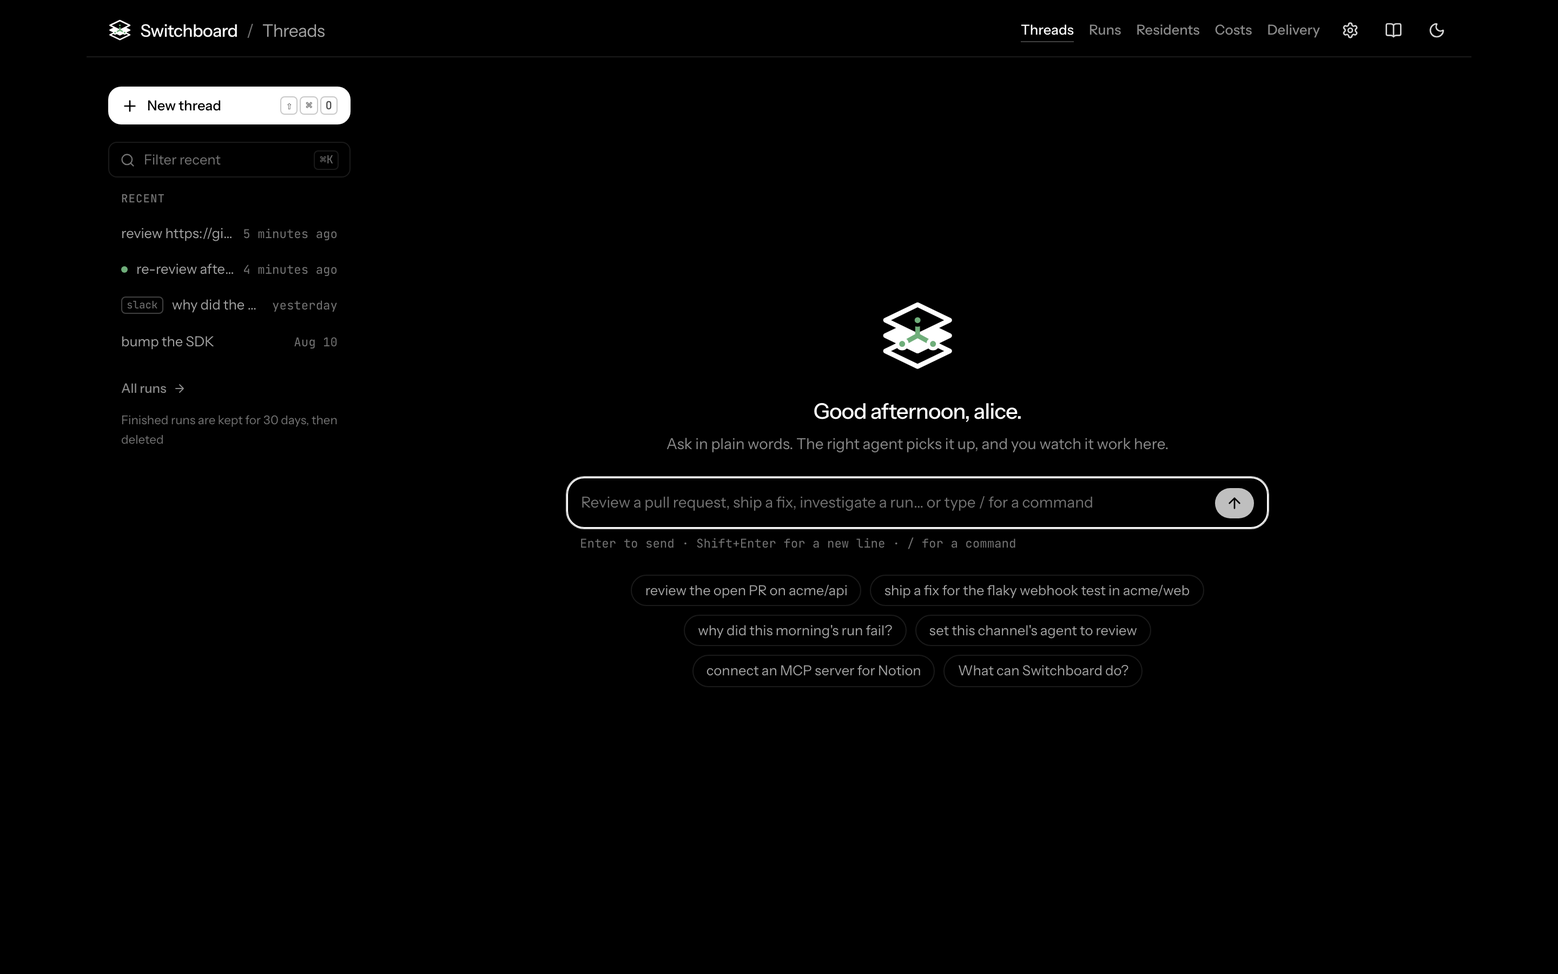
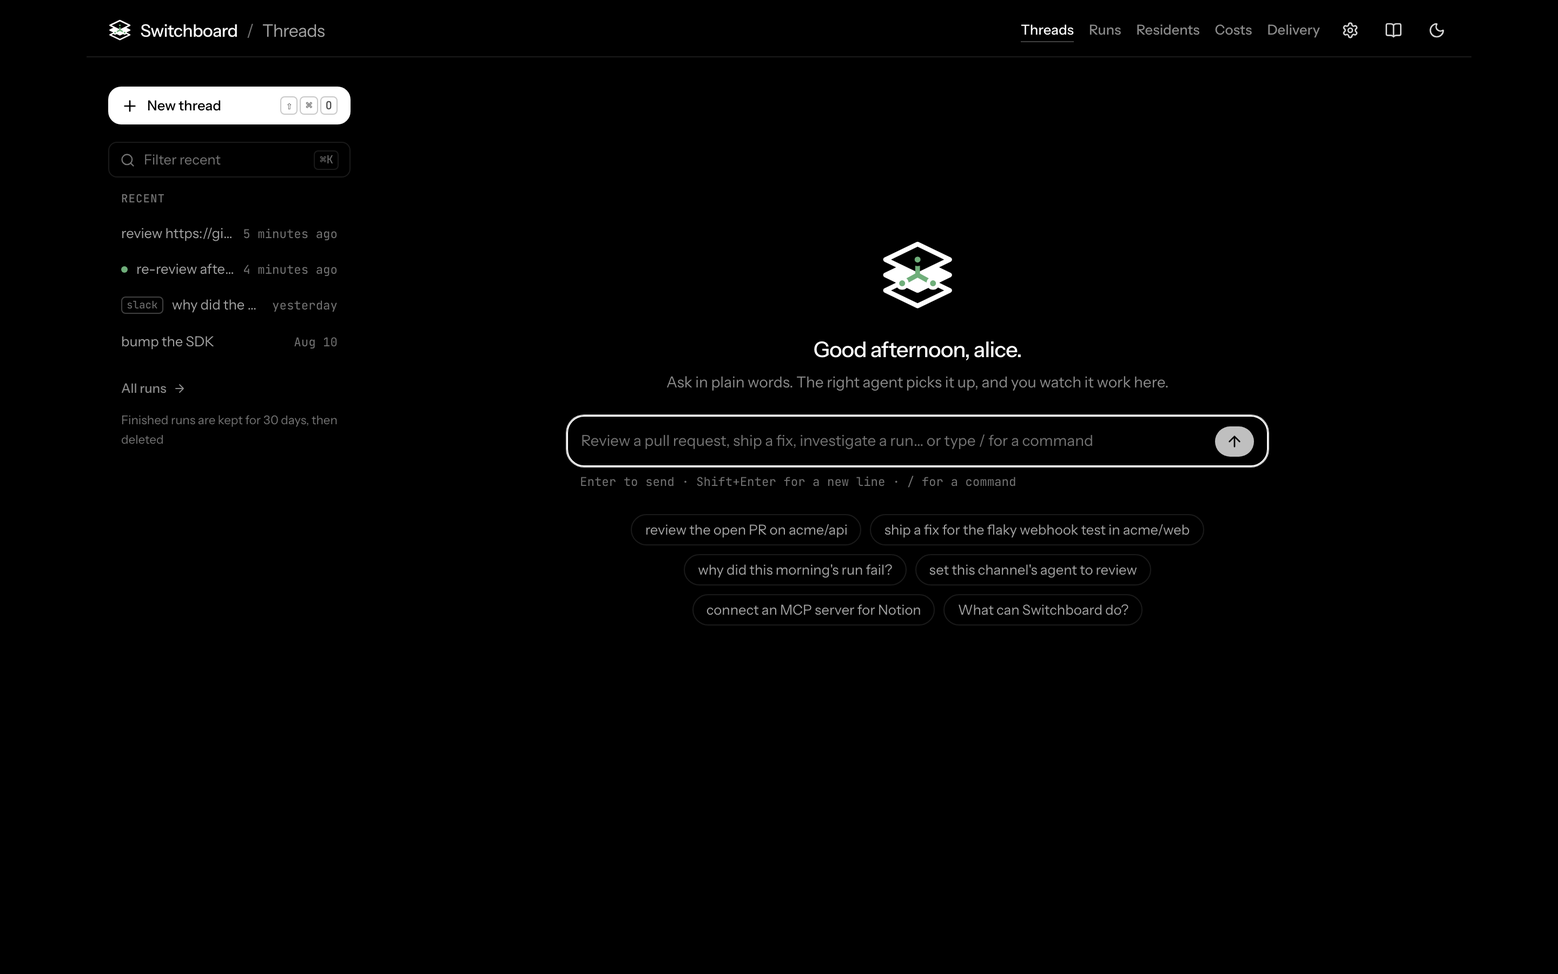
fix(web): the empty state hangs from the top at a capped offset, the composer focus sweep is a line of colour that settles to ink, and a rail title skips a run that recorded no request
Three things the maintainer saw on the live page. The empty state was
centred in the viewport, so a tall screen sank the greeting and the composer
to the middle of nowhere; it now hangs from the top at clamp(1.5rem, 14vh,
9rem). The focus sweep was a monochrome light in a zero-chroma page and read
as nothing moving; the conic gradient is now the mark's green blending into
ink, so a line of colour is seen to travel the ring once and settle to the
focused border. A ship thread whose first attempt died before publishing its
request was titled by that run's label — the card's head — so the rail reads
the thread's first request from the oldest run that recorded one.

Spec: web-chat.md items 2, 7 and 8.

Changed region(s): [[0.375, 0.2489, 0.8125, 0.6533], [0.4688, 0.6844, 0.5938, 0.7156], [0.625, 0.6844, 0.7188, 0.7156]]

diff --git a/src/channels/web.test.ts b/src/channels/web.test.ts
@@ -528,12 +528,23 @@ describe("GET /threads and /threads/<id> — the seed from the runs service (ite
     expect(res.body).not.toMatch(/tok-/);
   });
 
-  it("/threads/<id> seeds exactly the thread's runs the viewer may read, oldest first, each with its request, reply and route; a live run carries its token; the rail lists the viewer's threads across channels, newest first, a foreign thread by its whole key", async () => {
+  it("/threads/<id> seeds exactly the thread's runs the viewer may read, oldest first, each with its request, reply and route; a live run carries its token; the rail lists the viewer's threads across channels, newest first, a foreign thread by its whole key, a thread whose oldest run recorded no request titled by the next one's", async () => {
     const { handler, store, registry } = setup();
     await store.put(record("r-1", NOW - 60_000));
     await store.put(record("r-2", NOW - 30_000));
     // Another conversation of alice's, and a Slack thread her linked person requested in.
     await store.put(record("o-1", NOW - 3_600_000, { threadKey: "web:a1:conv-2" }));
+    // A thread whose oldest run died before its request was published (no `input`; its
+    // label is the card's head): the title comes from the next run that recorded one.
+    await store.put(
+      record("d-0", NOW - 7_200_000, {
+        threadKey: "web:a1:conv-3",
+        label: "*ship* on `anthropic/m`",
+        status: "failed",
+        events: [{ type: "run_meta", agent: "ship", seq: 1 }],
+      }),
+    );
+    await store.put(record("d-1", NOW - 7_000_000, { threadKey: "web:a1:conv-3" }));
     await store.put(
       record("s-1", NOW - 120_000, {
         threadKey: "slack:C1:1712.34",
@@ -576,6 +587,7 @@ describe("GET /threads and /threads/<id> — the seed from the runs service (ite
         surface: "slack",
       },
       { id: "conv-2", title: "request of o-1", lastAt: NOW - 3_600_000, runs: 1, live: false, surface: "web" },
+      { id: "conv-3", title: "request of d-1", lastAt: NOW - 7_000_000, runs: 2, live: false, surface: "web" },
     ]);
     // The tab title carries the live count, as the runs index does.
     expect(res.body).toMatch(/<title>\(1\) Threads<\/title>/);

diff --git a/web/src/assets/main.css b/web/src/assets/main.css
@@ -335,10 +335,13 @@
 
 /*
  * The composer's ring sweep (web-chat.md rule 8): on focus, and once as the
- * page lands, a light travels one turn around the box's hairline — a rotating
- * conic gradient masked to a 1px ring, 700 ms, then gone. Nothing moves; the
- * ring is the only thing that changes. The second and last exception to the
- * 8px rule, beside the mark's draw. Off under prefers-reduced-motion.
+ * page lands, a line of colour travels one turn around the box's hairline — a
+ * rotating conic gradient masked to a 1px ring, 700 ms — and fades as it
+ * arrives, leaving the ink border the focus already drew. The colour is the
+ * mark's own (the ok green, the one accent the page carries), so the line is
+ * seen to move and then settle to white. Nothing else moves; the ring is the
+ * only thing that changes. The second and last exception to the 8px rule,
+ * beside the mark's draw. Off under prefers-reduced-motion.
  */
 @property --sb-angle {
   syntax: "<angle>";
@@ -354,8 +357,9 @@
   background: conic-gradient(
     from var(--sb-angle),
     transparent 0deg,
-    transparent 250deg,
-    var(--ui-primary) 320deg,
+    transparent 200deg,
+    var(--ui-success) 300deg,
+    var(--ui-primary) 340deg,
     transparent 360deg
   );
   -webkit-mask:

diff --git a/src/channels/web.ts b/src/channels/web.ts
@@ -329,9 +329,16 @@ export function createWebChatHandler(
     const groups = threadsOf(listed.runs);
     const rows = await Promise.all(
       groups.map(async (g): Promise<HomeConversationRowSeed> => {
+        // The thread's first request, from the oldest run that recorded one: a
+        // run refused before its request was published (a died ship attempt)
+        // has no `input`, and its label is the card's head, not a title.
+        let request = "";
+        for (const run of g.runs) {
+          const read = await deps.service.getRun(run.id, { include: "messages" });
+          request = read.ok ? turnOf(read.value).request : "";
+          if (request !== "") break;
+        }
         const first = g.runs[0];
-        const read = await deps.service.getRun(first.id, { include: "messages" });
-        const request = read.ok ? turnOf(read.value).request : "";
         return {
           id: conversationIdOf(sub, g.threadKey),
           title: threadTitle(request || first.label || first.id),

diff --git a/web/src/pages/HomePage.vue b/web/src/pages/HomePage.vue
@@ -309,10 +309,12 @@ const elsewhereLine = !elsewhere
       </USlideover>
 
       <section class="thread mx-auto flex min-h-[calc(100vh-8rem)] w-full max-w-3xl flex-col">
-        <!-- The empty state: the mark, the greeting, the composer in the middle, the chips. -->
+        <!-- The empty state: the mark, the greeting, the composer, the chips — hung from the top at a
+             capped offset (a share of the viewport, never more than a hand's height), so a tall
+             screen does not sink it to the middle of nowhere; a short one keeps it in reach. -->
         <EmptyState
           v-if="empty"
-          class="my-auto"
+          class="mb-auto mt-[clamp(1.5rem,14vh,9rem)]"
           :name="seed.viewer.name"
           :hour="hour"
           :suggestions="seed.suggestions"

diff --git a/docs/reference/specs/web-chat.md b/docs/reference/specs/web-chat.md
@@ -9,13 +9,13 @@
 ## Behavior
 
 1. **Routes and the ways in.** `/threads` is a new conversation; `/threads/<conversation>` is one conversation; both render `HomePage.vue` from a `HomeSeed`, and the whole surface sits under the one prefix so the Access application covers it with one rule. `/` redirects to `/threads`. **Threads** is the first section of the site nav on every installation. Every page's header opens with the constant part, the mark and the word Switchboard as one link to `/threads`, and the page's own title beside it as a subordinate label; the product is always named, the page is what changes. The name is the system's own: a run is a unit of work, a thread a unit of context, and a thread on any channel is one; the rail lists the person's threads across channels (record 0043's amendment), a thread from another channel by its whole key, read-only (item 7). The runs page stays the operator surface: stop, kill, scheduled, costs and delivery never move here. `/threads*` sits behind the dashboard gate like every section (the Access application must list the `threads` prefix); `/` is not gated and answers `302` to `/threads`.
-2. **The seed is the conversation's runs.** `HomeSeed.turns` is one `HomeTurnSeed` per run of the thread, oldest first: the run as every listing views it (`RunView`, a live row with its `token` as the index carries it), the request text (the `input` event), the reply text (the `answer` event) and the route it ran under (the `route` event). `conversations` is the rail's RECENT list: the viewer's own threads across every channel — the runs `ownedBy` the viewer's actor (their session and, when linked, their person) grouped by `threadKey`, the newest 20 threads, newest first — each titled by its first request's first line cut to 60 characters (`threadTitle`; the run's label when the read fails), with its channel's platform as `surface`; a `web:` conversation of the viewer's own lane is linked by its conversation id, any other thread by its whole key. Bounded by the bot: nothing pages on this page; the runs page holds everything. `elsewhere` is set when the open thread is another channel's: its platform and, when a run recorded one, the thread's own link. `suggestions` are the empty state's chips (`suggestionsFor`): what Switchboard does well, grounded in the viewer's own runs — a review on the repository they last worked in (or a pull request by its link where GitHub is on), why their last run failed (or what it did), the agent and model a run here gets, an MCP server where MCP is on — and one that asks what it can do, last; every chip is a read or a request the front door hands back, never a change started blind, so a click is safe; `commands` are the `/` palette's rows, every command the registry exposes to chat and the viewer may run, in chat form with the command's own `describe` (record 0008); `retentionDays` bounds the conversation's life and the rail says so.
+2. **The seed is the conversation's runs.** `HomeSeed.turns` is one `HomeTurnSeed` per run of the thread, oldest first: the run as every listing views it (`RunView`, a live row with its `token` as the index carries it), the request text (the `input` event), the reply text (the `answer` event) and the route it ran under (the `route` event). `conversations` is the rail's RECENT list: the viewer's own threads across every channel — the runs `ownedBy` the viewer's actor (their session and, when linked, their person) grouped by `threadKey`, the newest 20 threads, newest first — each titled by its first request's first line cut to 60 characters (`threadTitle`, from the oldest run that recorded an `input` — a run that died before publishing one is skipped; the oldest run's label only when no run has a request), with its channel's platform as `surface`; a `web:` conversation of the viewer's own lane is linked by its conversation id, any other thread by its whole key. Bounded by the bot: nothing pages on this page; the runs page holds everything. `elsewhere` is set when the open thread is another channel's: its platform and, when a run recorded one, the thread's own link. `suggestions` are the empty state's chips (`suggestionsFor`): what Switchboard does well, grounded in the viewer's own runs — a review on the repository they last worked in (or a pull request by its link where GitHub is on), why their last run failed (or what it did), the agent and model a run here gets, an MCP server where MCP is on — and one that asks what it can do, last; every chip is a read or a request the front door hands back, never a change started blind, so a click is safe; `commands` are the `/` palette's rows, every command the registry exposes to chat and the viewer may run, in chat form with the command's own `describe` (record 0008); `retentionDays` bounds the conversation's life and the rail says so.
 3. **Sending.** Enter (not Shift+Enter) POSTs `{ text }` to `sendUrl` with same-origin credentials; a chip sends its words on click, no Enter. On send the person's turn is drawn at once, held back (`data-pending`) until the answer, and the mark in the header pulses once down its route. A `202 { runId, viewPath }` mounts an assistant turn on the run's own stream — and, when the page was opened at `/threads`, rewrites the address to `/threads/<conversation>` without a load or a history entry (`browser.replaceUrl`), so a reload finds the conversation that now exists: `viewPath` is `/runs/<id>?t=<token>`, and the page derives `/runs/<id>/events?t=…` and `/runs/<id>/stop?t=…` from it (`liveUrls`); anything else in the path is refused. A `200 { reply }` is one of three things (`classifyReply`): a **hand-back**, a reply beginning `HAND_BACK_PREFIX` (`To run this:`), fills the composer with the command, focused, with the hint `Enter runs it`, and paints no turn; a **steer acknowledgement** (`↪ Folded into …`) paints nothing, because the live turn's `input` event confirms the turn already drawn (item 5); any other reply is an **inline turn**, painted once and never stored. A failed send keeps the person's turn and says why under it (`not sent: <reason>`).
 4. **A turn is a run.** `AssistantTurn.vue` owns one `createRunPageModel` (the run page's fold, live-view item 18) and attaches to the run's stream through the run page's own `attachRunStream` (`runStream.ts`: the seq dedupe, the named frames, the phases; nothing of the transport is the turn's own). Live, it draws: the receipt chip once the `route` event arrives (else the agent's chip from `run_meta`), the model's real name once known, the pending row while the model is silent and nothing runs (the run page's own `PendingTurnRow`: ∿, the model's badge, a verb from the shared list walked by the silence's length, the elapsed since the last stamped event, live-view item 18), the work open by default as the run page's own `StepBlock`s, and the reply whole when the `answer` lands. `finished` freezes the clock at the server's stamp (at the elapsed it shows, for a turn a `202` mounted without a server clock); `end` closes the stream and the turn becomes the finished shape in place. A stream the browser gives up on (`disconnected`) keeps the turn live for the conversation, so the composer stays `steer`: the clock freezes where the stream dropped and a row says so with the run's own page as the way on; nothing is drawn as over until `end` or a reload. Finished, closed, a turn is the receipt, the reply (or the record's outcome word when it made none), and one line of facts: the duration on the heat scale and `open run`; its work folds under it and reads the run's replay once, on first open, from `/runs/<id>/events`. The head's elapsed is the turn's one ticking number: the fold's summary is the step count alone.
 5. **A message during a live run.** The composer's control reads `steer` as soon as there is text, and the POST goes to the same route; the pipeline steers it (thread-admission item 1) and answers the acknowledgement, which the page ignores. The live turn's stream carries the `input` event the harness records when it drains the inbox; the page matches it to the newest unfolded person's turn with the same words (`matchSteer`) and stamps that turn `↪ folded in at <m:ss>`. One message, drawn once. The request's own `input` event is the turn the page drew and stamps nothing.
 6. **One control, two states.** The send button is `send` while no run is live in the conversation (disabled only with an empty box), `stop` while one is and the box is empty (a soft stop, `POST <stopUrl>&mode=soft`), `steer` while one is and there is text. It is never disabled while a run is live; its icon crossfades between the three. The hint under the box names the state and is always laid out (its height is reserved; only its opacity changes), so nothing on the page shifts when it appears.
-7. **The rail, the shortcuts and the empty state.** The rail is a column from `md` up and a sheet from the left on a phone (the header's panel button opens it). It holds, in order: the **new-thread** control, the one solid control on the page, with its shortcut `⇧⌘O` in view (`⌃⇧O` where there is no ⌘); a **filter** field that narrows the recent rows by a fuzzy subsequence match (`filterRows`; Escape clears), reached by `⌘K` from anywhere on the page (on a phone `⌘K` opens the sheet, then focuses); the RECENT rows, each with its relative time, a live dot on one whose run is in flight, its surface's word label on a thread from another channel (`slack`, `http`: the channel id's prefix, as the runs index labels a requester), and an ink bar on the current one; an **All runs** link to `/runs`; and the retention sentence. The empty state lands in a choreography, each part 40 ms after the last: the mark (drawing its route, then floating), the greeting naming the person and the time of day (`greeting`, from the browser's local hour, following the clock), the line under it, the composer, the chips. The composer is focused on load. A thread from another channel (`elsewhere`) opens **read-only**: its turns draw, there is no composer, and a line at the foot names the channel and links to the thread — a reply belongs where the thread is; another person's `web:` lane (read by an all-channels holder) is named as theirs, with nowhere to reply. Where the pointer is a finger (`pointer: coarse`), every control on the page is at least 44 px tall: the chips, the rail's control, filter and rows, the palette's rows, the composer's control; the hover lifts are off there.
-8. **The composer.** The box grows with its text to eight lines; its hairline brightens to ink on focus and a light sweeps once around the ring (the `ring-sweep`: a rotating conic gradient masked to the 1 px border, 700 ms), on every focus and once as the empty state lands. Its placeholder guides the hand by state (`placeholderFor`): what to ask while nothing is live, what the box does while a run is, nothing after a hand-back (the filled command is the guide). Enter sends and Shift+Enter breaks a line. `/` at the start of a message opens the **palette** (`slashQuery`): the seed's commands, each as `/<chat form>` with its description, narrowed by the fuzzy filter as the person types (`filterCommands`, chat form or description), the arrows moving the selection, Enter or Tab or a tap inserting the chat form and a space (`completeCommand`) so the arguments come next, Escape closing it; the slash never reaches the bot, which reads `<group> <verb>` at the start of a message. A message with a second line or a slash mid-sentence is prose.
+7. **The rail, the shortcuts and the empty state.** The rail is a column from `md` up and a sheet from the left on a phone (the header's panel button opens it). It holds, in order: the **new-thread** control, the one solid control on the page, with its shortcut `⇧⌘O` in view (`⌃⇧O` where there is no ⌘); a **filter** field that narrows the recent rows by a fuzzy subsequence match (`filterRows`; Escape clears), reached by `⌘K` from anywhere on the page (on a phone `⌘K` opens the sheet, then focuses); the RECENT rows, each with its relative time, a live dot on one whose run is in flight, its surface's word label on a thread from another channel (`slack`, `http`: the channel id's prefix, as the runs index labels a requester), and an ink bar on the current one; an **All runs** link to `/runs`; and the retention sentence. The empty state hangs from the top at a capped offset (`clamp(1.5rem, 14vh, 9rem)`), so a tall screen never sinks it to the middle and a short one keeps it in reach; it lands in a choreography, each part 40 ms after the last: the mark (drawing its route, then floating), the greeting naming the person and the time of day (`greeting`, from the browser's local hour, following the clock), the line under it, the composer, the chips. The composer is focused on load. A thread from another channel (`elsewhere`) opens **read-only**: its turns draw, there is no composer, and a line at the foot names the channel and links to the thread — a reply belongs where the thread is; another person's `web:` lane (read by an all-channels holder) is named as theirs, with nowhere to reply. Where the pointer is a finger (`pointer: coarse`), every control on the page is at least 44 px tall: the chips, the rail's control, filter and rows, the palette's rows, the composer's control; the hover lifts are off there.
+8. **The composer.** The box grows with its text to eight lines; its hairline brightens to ink on focus and a line of colour travels once around the ring and fades as it arrives, leaving the ink border (the `ring-sweep`: a rotating conic gradient in the mark's green masked to the 1 px border, 700 ms), on every focus and once as the empty state lands. Its placeholder guides the hand by state (`placeholderFor`): what to ask while nothing is live, what the box does while a run is, nothing after a hand-back (the filled command is the guide). Enter sends and Shift+Enter breaks a line. `/` at the start of a message opens the **palette** (`slashQuery`): the seed's commands, each as `/<chat form>` with its description, narrowed by the fuzzy filter as the person types (`filterCommands`, chat form or description), the arrows moving the selection, Enter or Tab or a tap inserting the chat form and a space (`completeCommand`) so the arguments come next, Escape closing it; the slash never reaches the bot, which reads `<group> <verb>` at the start of a message. A message with a second line or a slash mid-sentence is prose.
 9. **Following the transcript.** New content scrolls the transcript only when the reader was already at the bottom (`shouldFollow`, 60 px of slack); otherwise a `↓ new` pill appears and a click jumps down. The tab title is the conversation's title, `(1)` ahead of it while a run is live, and the favicon is the index's live dot.
 10. **Motion rules.** Every transition the page adds is opacity plus at most 8 px of translate along Y, between 120 and 200 ms, ease-out; under `prefers-reduced-motion` every move keeps its opacity and drops its travel. The vocabulary is four moves (`sb-rise`, `sb-fade`, `sb-move`, `sb-stagger`) and three named exceptions under 700 ms, each off under reduced motion: the mark's route draw (`mark-draw`), the mark's pulse on a send (`mark-pulse`) and the composer's ring sweep (`ring-sweep`); the mark's idle float (`mark-idle`) moves it 1 px over 4.6 s. Nothing else on the page moves that the person did not cause, except the pending row's pulse and a clock's tick. The design system's own rules hold: chroma is data alone (the receipt chip in the preset's hue, a failed outcome, the heat ramp), the type ladder is the run page's three voices.
 11. **The adapter** (`src/channels/web.ts`, record 0043). `POST /threads/<conversation>/send` sits behind the dashboard gate; a send must be same-origin (`originAllowed`, as `/api` writes are), JSON, under the ingress body cap, and into the session's **own lane**: the thread key is `web:<sub>:<conversation>` for a plain id, and a whole key from another channel is refused `403` (read here, answered there). The message is the gate's identity, never the request's: the browser session is the credential (`access:<sub>`), and when record 0042 linked it to its person the message names the **person** as `userId` (with their name) and the session as `authenticatedAs` — the shape a bound ingress token sends ([authorization.md](authorization.md) item 15, `requesterOf`) — else the session itself, named by its email; `channelId` is `web:<sub>` (`dm` in `visibilityOf`), `receivedAt` the adapter's clock, and `access` is a chat surface in `resolveChatActor` (the browser actor, whose baseline holds every group's read plus `memory:write` and `mcp:write`, item 9). The IO is the ingress IO's (`WebIO`: replies collected, `runStarted` raced against completion) with `history()` the thread's turns read from the run store as the person's and the agent's lines, stamped — the asking run left out, as every channel's history excludes the triggering message. A run created → `202 { runId, viewPath: /runs/<id>?t=<token>, threadKey }`, the token read from the registry after `runStarted` (a run gone from the registry first — discarded — is answered as a run-less request); no run → `200 { reply, run? }`. The seeds: `/threads` mints a 20-hex conversation id; `/threads/<id>` is `listRuns({ threadKey, status: "all", visibleTo: readableRuns(actor) })` for the newest 20 runs, oldest first, plus one `getRun(id, { include: "messages" })` each (`turnOf`: the first `input`, the last `answer`, the `route` event; a live run's token from the registry); another channel's thread the viewer may see nothing of is the same `404` an unknown run gives; the viewer's own empty conversation opens empty. The rail is item 2's, the palette `paletteCommands` (every chat-exposed command `authorize` admits the actor to, in `chatForm` with its `describe`), the chips `suggestionsFor`. The request's trace root is `channel: web`; the thread-key namespace `web` is a production namespace the binding purge refuses.
